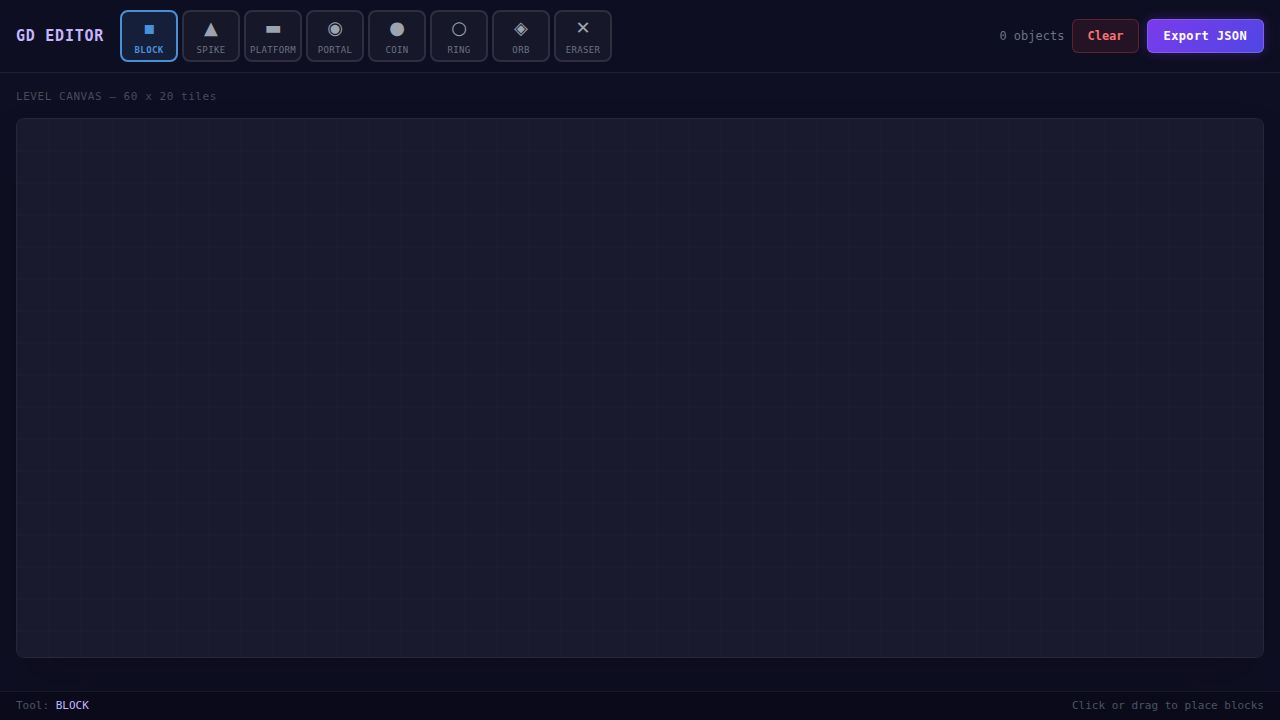
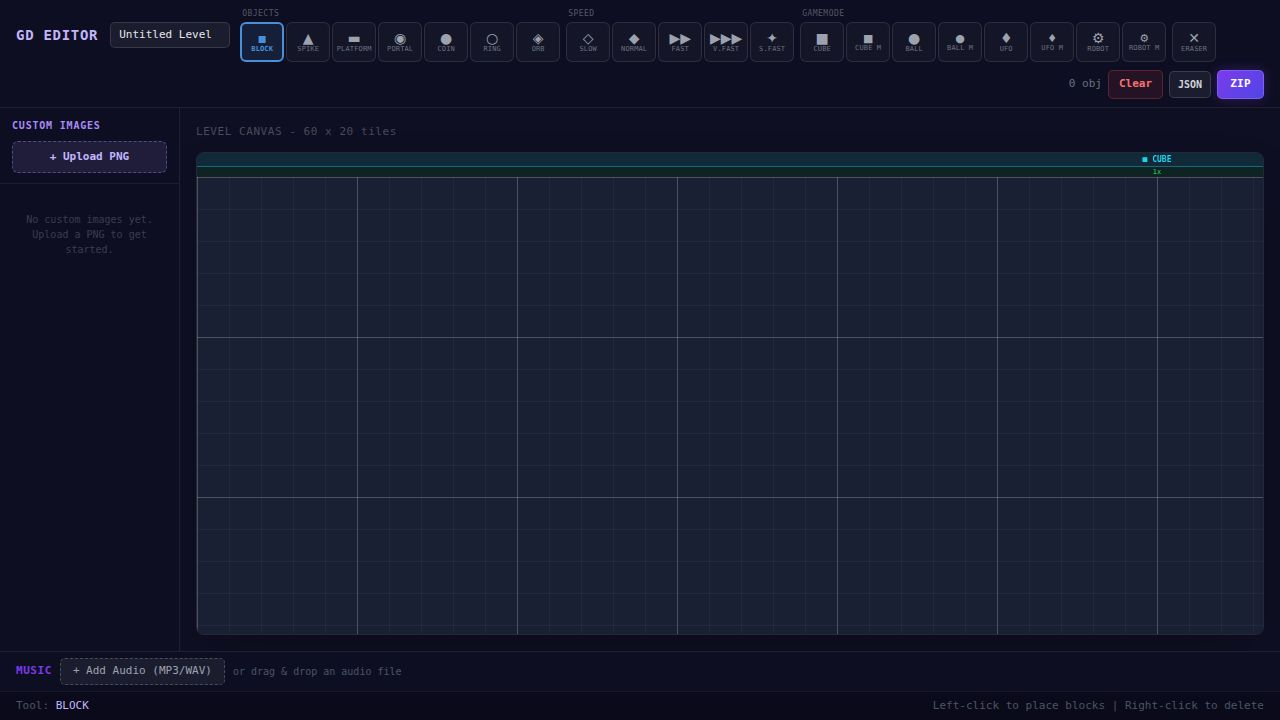
Add visual indicators for game mode and speed zones
Implement gamemode and speed zone indicators at the top of the canvas, along with column tinting to visually represent the active gamemode and speed at any given point in the level.

Replit-Commit-Author: Agent
Replit-Commit-Session-Id: 9c067460-1526-49e9-95bb-17b02cf0fb74
Replit-Commit-Checkpoint-Type: full_checkpoint
Replit-Commit-Event-Id: 01cef415-5669-431e-89fb-f4f798034b8f
Replit-Commit-Screenshot-Url: https://storage.googleapis.com/screenshot-production-us-central1/8a100ed8-e26c-42bb-a5b1-59e157f4d87a/9c067460-1526-49e9-95bb-17b02cf0fb74/N3BAoGq
Replit-Helium-Checkpoint-Created: true

diff --git a/artifacts/gd-level-editor/src/components/LevelEditor.tsx b/artifacts/gd-level-editor/src/components/LevelEditor.tsx
@@ -5,6 +5,55 @@ import { OBJECT_DEFS, isBuiltinType } from "../objectDefs";
 const TILE_SIZE = 32;
 const GRID_COLS = 60;
 const GRID_ROWS = 20;
+const HEADER_HEIGHT = 24;
+
+const GAMEMODE_TYPES = new Set<string>([
+  "gm_cube", "gm_cube_mini", "gm_ball", "gm_ball_mini",
+  "gm_ufo", "gm_ufo_mini", "gm_robot", "gm_robot_mini",
+]);
+
+const SPEED_TYPES = new Set<string>([
+  "speed_slow", "speed_normal", "speed_fast", "speed_vfast", "speed_sfast",
+]);
+
+type GamemodeKind = "cube" | "ball" | "ufo" | "robot";
+
+const GAMEMODE_KIND_MAP: Record<string, GamemodeKind> = {
+  gm_cube: "cube", gm_cube_mini: "cube",
+  gm_ball: "ball", gm_ball_mini: "ball",
+  gm_ufo: "ufo", gm_ufo_mini: "ufo",
+  gm_robot: "robot", gm_robot_mini: "robot",
+};
+
+const GAMEMODE_COLORS: Record<GamemodeKind, string> = {
+  cube: "#22d3ee",
+  ball: "#f97316",
+  ufo: "#a78bfa",
+  robot: "#6ee7b7",
+};
+
+const GAMEMODE_ICONS: Record<GamemodeKind, string> = {
+  cube: "\u25A0",
+  ball: "\u25CF",
+  ufo: "\u2666",
+  robot: "\u2699",
+};
+
+const SPEED_COLOR_MAP: Record<string, string> = {
+  speed_slow: "#3b82f6",
+  speed_normal: "#22c55e",
+  speed_fast: "#f59e0b",
+  speed_vfast: "#ef4444",
+  speed_sfast: "#a855f7",
+};
+
+const SPEED_LABEL_MAP: Record<string, string> = {
+  speed_slow: "0.5x",
+  speed_normal: "1x",
+  speed_fast: "2x",
+  speed_vfast: "3x",
+  speed_sfast: "4x",
+};
 
 interface LevelEditorProps {
   selectedTool: ToolType;
@@ -19,6 +68,50 @@ function formatTimeBadge(t: number): string {
   const s = Math.floor(t);
   const ms = Math.floor((t % 1) * 10);
   return `${s}.${ms}s`;
+}
+
+interface ZoneInfo {
+  gamemode: GamemodeKind;
+  isMini: boolean;
+  speed: string;
+}
+
+function computeZones(objects: LevelObject[]): ZoneInfo[] {
+  const zones: ZoneInfo[] = Array.from({ length: GRID_COLS }, () => ({
+    gamemode: "cube" as GamemodeKind,
+    isMini: false,
+    speed: "speed_normal",
+  }));
+
+  const portalsByCol: { col: number; type: string }[] = [];
+  for (const obj of objects) {
+    if (GAMEMODE_TYPES.has(obj.type) || SPEED_TYPES.has(obj.type)) {
+      portalsByCol.push({ col: obj.x, type: obj.type });
+    }
+  }
+  portalsByCol.sort((a, b) => a.col - b.col);
+
+  let currentGamemode: GamemodeKind = "cube";
+  let currentMini = false;
+  let currentSpeed = "speed_normal";
+
+  let portalIdx = 0;
+
+  for (let col = 0; col < GRID_COLS; col++) {
+    while (portalIdx < portalsByCol.length && portalsByCol[portalIdx].col === col) {
+      const p = portalsByCol[portalIdx];
+      if (GAMEMODE_TYPES.has(p.type)) {
+        currentGamemode = GAMEMODE_KIND_MAP[p.type];
+        currentMini = p.type.endsWith("_mini");
+      } else if (SPEED_TYPES.has(p.type)) {
+        currentSpeed = p.type;
+      }
+      portalIdx++;
+    }
+    zones[col] = { gamemode: currentGamemode, isMini: currentMini, speed: currentSpeed };
+  }
+
+  return zones;
 }
 
 export function LevelEditor({
@@ -45,13 +138,133 @@ export function LevelEditor({
   const drawGrid = useCallback(
     (ctx: CanvasRenderingContext2D) => {
       const w = GRID_COLS * TILE_SIZE;
-      const h = GRID_ROWS * TILE_SIZE;
+      const totalH = HEADER_HEIGHT + GRID_ROWS * TILE_SIZE;
       const imgMap = customImageMap();
 
-      ctx.clearRect(0, 0, w, h);
+      ctx.clearRect(0, 0, w, totalH);
+
+      const zones = computeZones(objects);
+
+      ctx.fillStyle = "#0d0d1a";
+      ctx.fillRect(0, 0, w, HEADER_HEIGHT);
+
+      const gmStripH = 14;
+      const speedStripH = HEADER_HEIGHT - gmStripH;
+
+      let prevGM: GamemodeKind | null = null;
+      let prevMini: boolean | null = null;
+      let zoneStartCol = 0;
+
+      const drawGmZone = (startCol: number, endCol: number, gm: GamemodeKind, mini: boolean) => {
+        const x1 = startCol * TILE_SIZE;
+        const x2 = endCol * TILE_SIZE;
+        const color = GAMEMODE_COLORS[gm];
+        ctx.fillStyle = color + "25";
+        ctx.fillRect(x1, 0, x2 - x1, gmStripH);
+        ctx.fillStyle = color + "60";
+        ctx.fillRect(x1, gmStripH - 1, x2 - x1, 1);
+
+        const zoneMidX = (x1 + x2) / 2;
+        const zoneW = x2 - x1;
+        if (zoneW > 30) {
+          ctx.font = "bold 8px monospace";
+          ctx.textAlign = "center";
+          ctx.textBaseline = "middle";
+          ctx.fillStyle = color;
+          const label = GAMEMODE_ICONS[gm] + " " + gm.toUpperCase() + (mini ? " m" : "");
+          ctx.fillText(label, zoneMidX, gmStripH / 2);
+        }
+
+        if (startCol > 0) {
+          ctx.strokeStyle = color + "80";
+          ctx.lineWidth = 1;
+          ctx.beginPath();
+          ctx.moveTo(x1 + 0.5, 0);
+          ctx.lineTo(x1 + 0.5, gmStripH);
+          ctx.stroke();
+        }
+      };
+
+      for (let col = 0; col < GRID_COLS; col++) {
+        const z = zones[col];
+        if (prevGM === null) {
+          prevGM = z.gamemode;
+          prevMini = z.isMini;
+          zoneStartCol = col;
+        } else if (z.gamemode !== prevGM || z.isMini !== prevMini) {
+          drawGmZone(zoneStartCol, col, prevGM, prevMini!);
+          prevGM = z.gamemode;
+          prevMini = z.isMini;
+          zoneStartCol = col;
+        }
+      }
+      if (prevGM !== null) {
+        drawGmZone(zoneStartCol, GRID_COLS, prevGM, prevMini!);
+      }
+
+      let prevSpeed: string | null = null;
+      let speedStartCol = 0;
+
+      const drawSpeedZone = (startCol: number, endCol: number, speed: string) => {
+        const x1 = startCol * TILE_SIZE;
+        const x2 = endCol * TILE_SIZE;
+        const color = SPEED_COLOR_MAP[speed] ?? "#22c55e";
+        ctx.fillStyle = color + "20";
+        ctx.fillRect(x1, gmStripH, x2 - x1, speedStripH);
+
+        const zoneMidX = (x1 + x2) / 2;
+        const zoneW = x2 - x1;
+        if (zoneW > 24) {
+          ctx.font = "bold 7px monospace";
+          ctx.textAlign = "center";
+          ctx.textBaseline = "middle";
+          ctx.fillStyle = color + "cc";
+          ctx.fillText(SPEED_LABEL_MAP[speed] ?? "1x", zoneMidX, gmStripH + speedStripH / 2);
+        }
+
+        if (startCol > 0) {
+          ctx.strokeStyle = color + "60";
+          ctx.lineWidth = 1;
+          ctx.beginPath();
+          ctx.moveTo(x1 + 0.5, gmStripH);
+          ctx.lineTo(x1 + 0.5, HEADER_HEIGHT);
+          ctx.stroke();
+        }
+      };
+
+      for (let col = 0; col < GRID_COLS; col++) {
+        const z = zones[col];
+        if (prevSpeed === null) {
+          prevSpeed = z.speed;
+          speedStartCol = col;
+        } else if (z.speed !== prevSpeed) {
+          drawSpeedZone(speedStartCol, col, prevSpeed);
+          prevSpeed = z.speed;
+          speedStartCol = col;
+        }
+      }
+      if (prevSpeed !== null) {
+        drawSpeedZone(speedStartCol, GRID_COLS, prevSpeed);
+      }
+
+      ctx.strokeStyle = "rgba(255,255,255,0.15)";
+      ctx.lineWidth = 1;
+      ctx.beginPath();
+      ctx.moveTo(0, HEADER_HEIGHT + 0.5);
+      ctx.lineTo(w, HEADER_HEIGHT + 0.5);
+      ctx.stroke();
+
+      const oY = HEADER_HEIGHT;
 
       ctx.fillStyle = "#1a1a2e";
-      ctx.fillRect(0, 0, w, h);
+      ctx.fillRect(0, oY, w, GRID_ROWS * TILE_SIZE);
+
+      for (let col = 0; col < GRID_COLS; col++) {
+        const z = zones[col];
+        const color = GAMEMODE_COLORS[z.gamemode];
+        ctx.fillStyle = color + "08";
+        ctx.fillRect(col * TILE_SIZE, oY, TILE_SIZE, GRID_ROWS * TILE_SIZE);
+      }
 
       ctx.strokeStyle = "rgba(255,255,255,0.12)";
       ctx.lineWidth = 0.5;
@@ -60,8 +273,8 @@ export function LevelEditor({
         ctx.strokeStyle = isMajor ? "rgba(255,255,255,0.22)" : "rgba(255,255,255,0.08)";
         ctx.lineWidth = isMajor ? 1 : 0.5;
         ctx.beginPath();
-        ctx.moveTo(c * TILE_SIZE + 0.5, 0);
-        ctx.lineTo(c * TILE_SIZE + 0.5, h);
+        ctx.moveTo(c * TILE_SIZE + 0.5, oY);
+        ctx.lineTo(c * TILE_SIZE + 0.5, oY + GRID_ROWS * TILE_SIZE);
         ctx.stroke();
       }
       for (let r = 0; r <= GRID_ROWS; r++) {
@@ -69,14 +282,14 @@ export function LevelEditor({
         ctx.strokeStyle = isMajor ? "rgba(255,255,255,0.22)" : "rgba(255,255,255,0.08)";
         ctx.lineWidth = isMajor ? 1 : 0.5;
         ctx.beginPath();
-        ctx.moveTo(0, r * TILE_SIZE + 0.5);
-        ctx.lineTo(w, r * TILE_SIZE + 0.5);
+        ctx.moveTo(0, oY + r * TILE_SIZE + 0.5);
+        ctx.lineTo(w, oY + r * TILE_SIZE + 0.5);
         ctx.stroke();
       }
 
       for (const obj of objects) {
         const px = obj.x * TILE_SIZE;
-        const py = obj.y * TILE_SIZE;
+        const py = oY + obj.y * TILE_SIZE;
 
         if (isBuiltinType(obj.type)) {
           const def = OBJECT_DEFS[obj.type];
@@ -116,7 +329,7 @@ export function LevelEditor({
       if (hoverCell) {
         const { col, row } = hoverCell;
         const hx = col * TILE_SIZE;
-        const hy = row * TILE_SIZE;
+        const hy = oY + row * TILE_SIZE;
 
         if (selectedTool === "eraser") {
           ctx.fillStyle = "rgba(239,68,68,0.25)";
@@ -159,8 +372,8 @@ export function LevelEditor({
     const scaleY = canvas.height / rect.height;
     const px = (e.clientX - rect.left) * scaleX;
     const py = (e.clientY - rect.top) * scaleY;
+    const row = Math.floor((py - HEADER_HEIGHT) / TILE_SIZE);
     const col = Math.floor(px / TILE_SIZE);
-    const row = Math.floor(py / TILE_SIZE);
     if (col < 0 || col >= GRID_COLS || row < 0 || row >= GRID_ROWS) return null;
     return { col, row };
   };
@@ -232,7 +445,7 @@ export function LevelEditor({
       <canvas
         ref={canvasRef}
         width={GRID_COLS * TILE_SIZE}
-        height={GRID_ROWS * TILE_SIZE}
+        height={HEADER_HEIGHT + GRID_ROWS * TILE_SIZE}
         onMouseDown={handleMouseDown}
         onMouseMove={handleMouseMove}
         onMouseUp={handleMouseUp}
